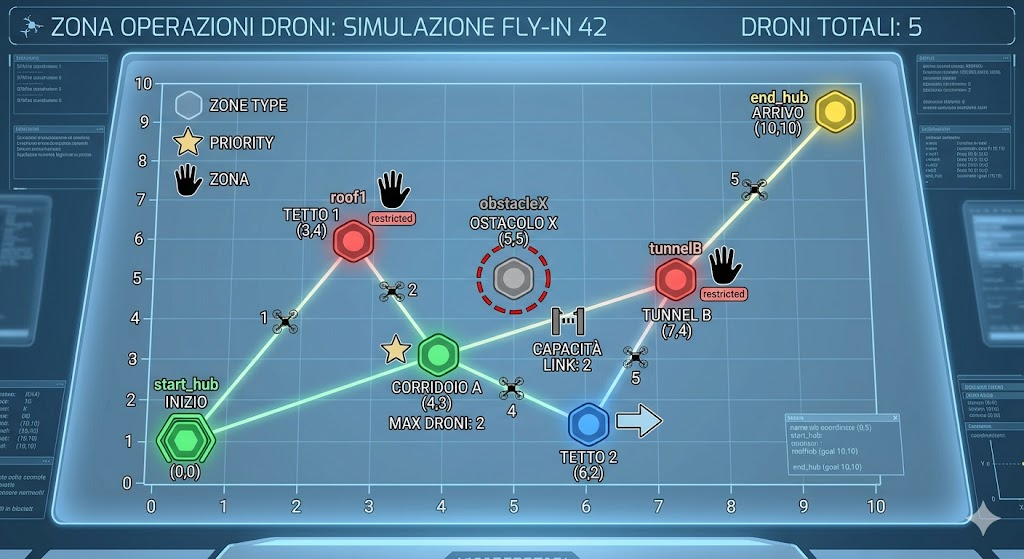
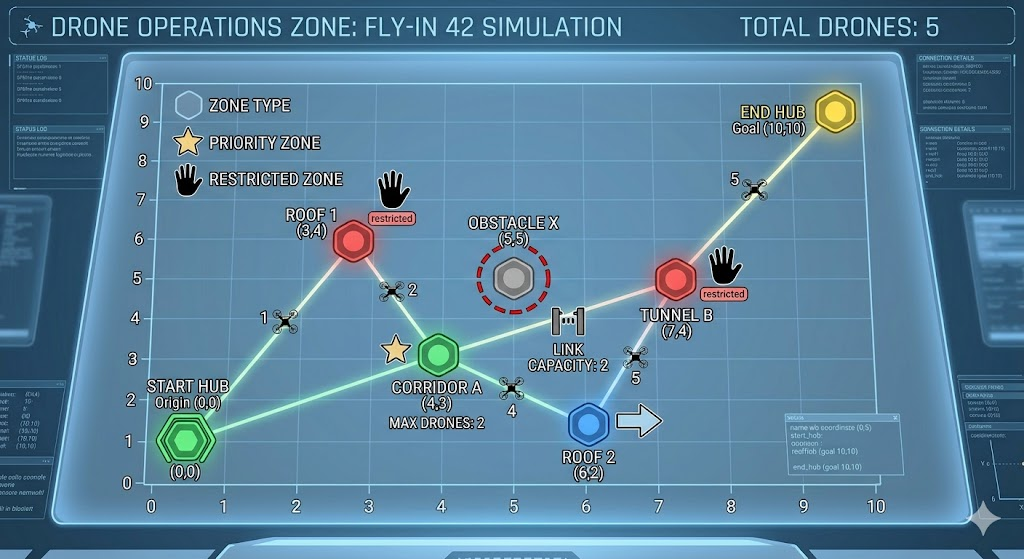
lel

diff --git a/pathfinder.py b/pathfinder.py
@@ -1,4 +1,4 @@
-from map_parser import Zone, Connection, Parser
+from map_parser import Zone, Connection
 import heapq
 
 
@@ -11,6 +11,8 @@ class Pathfinder:
                  end_hub: Zone):
         self.nb_drones = nb_drones
         self.zones = zones
+        self.start_hub = start_hub
+        self.end_hub = end_hub
         self.connections = connections
         self.costs = {}
         self.queue = []
@@ -21,5 +23,10 @@ class Pathfinder:
         heapq.heappush(self.queue, (0, self.start_hub.name))
 
         while self.queue:
-            costo, zona = heapq.heappop(self.queue)
-            
+            cost, zone = heapq.heappop(self.queue)
+            for element in self.connections.values():
+                if element.zone1 == zone or element.zone2 == zone:
+                    neighbor = (element.zone1
+                                if element.zone1 == zone else element.zone2)
+                zone_type = self.zones[neighbor].zone_type
+                total_cost = cost + (2 if zone_type == "restricted" else 1)
